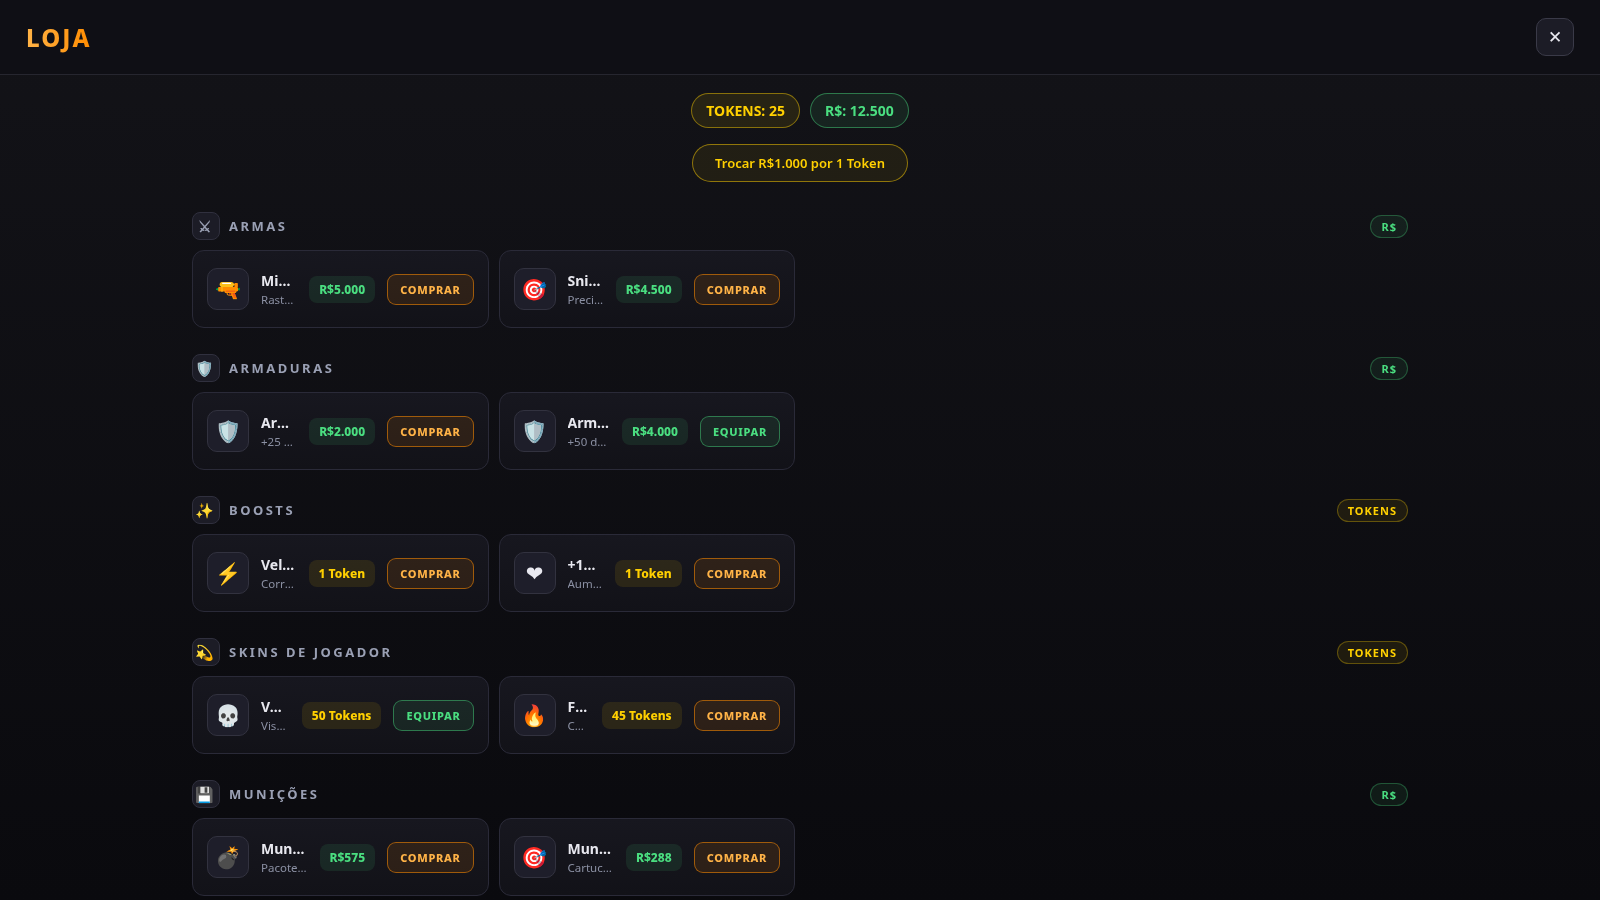
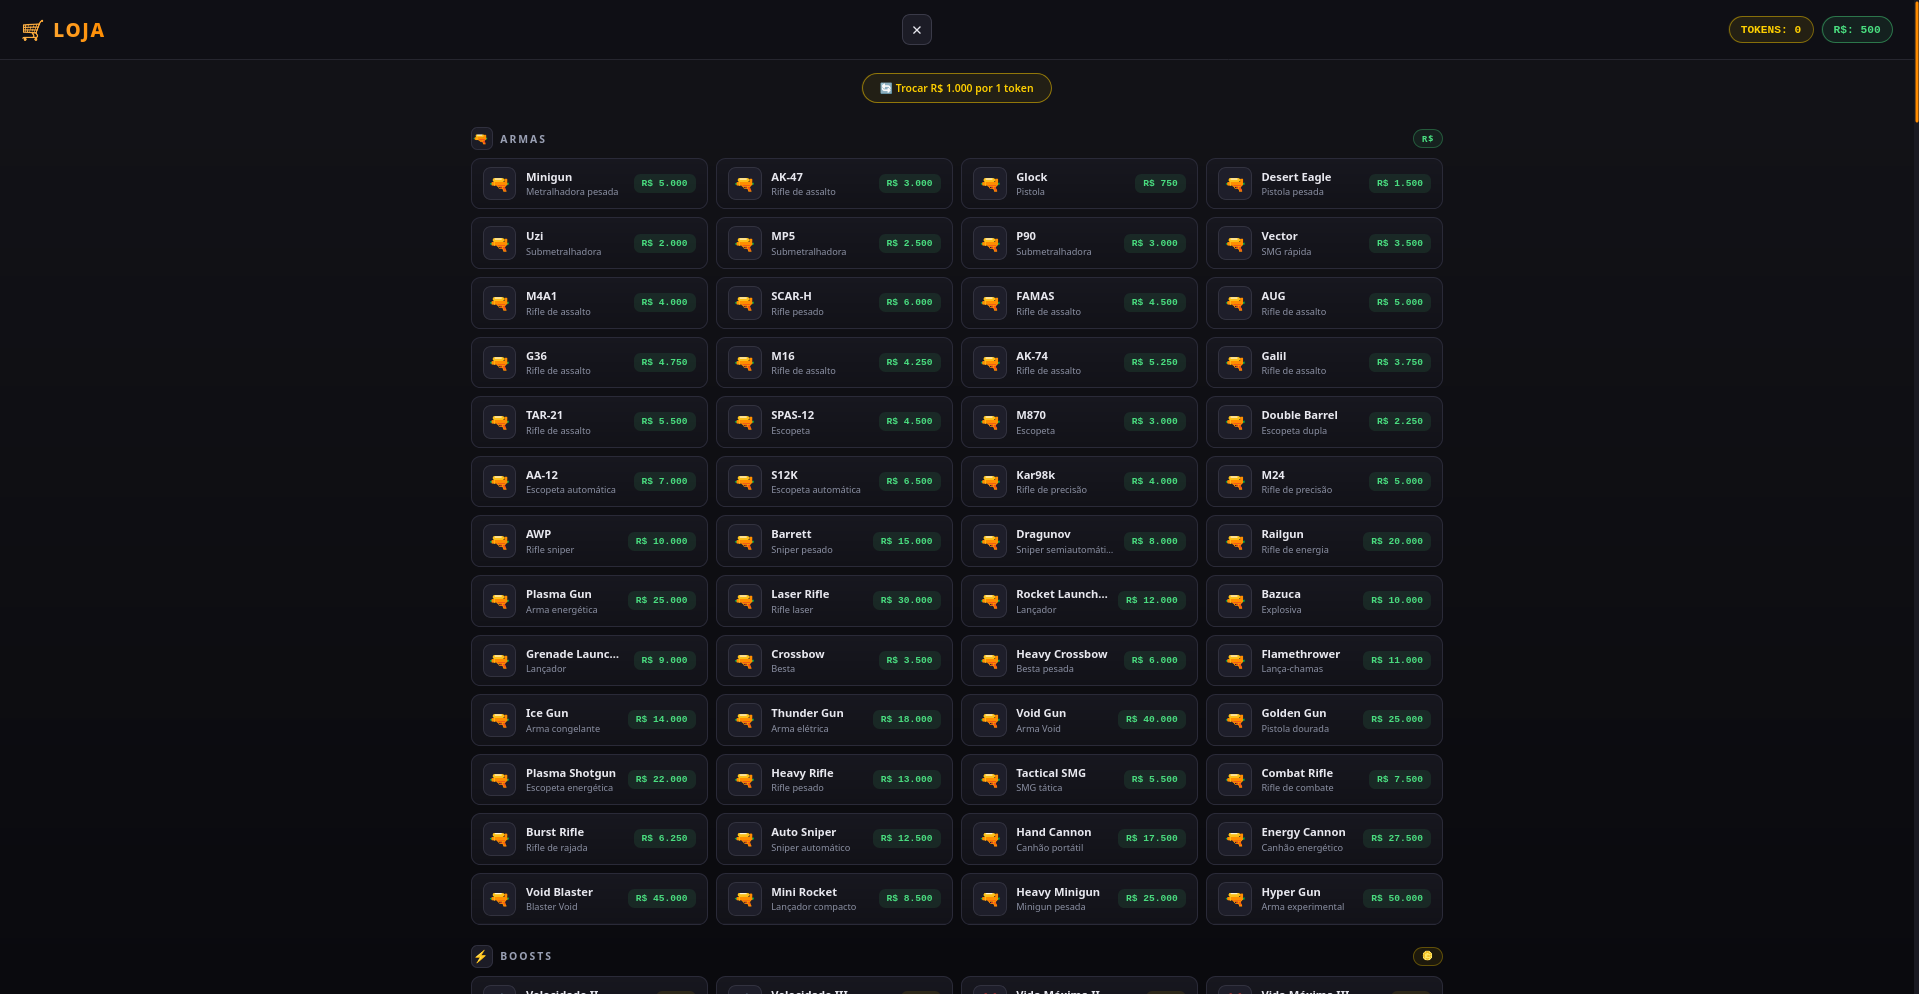
docs: ajustes no README e screenshot da loja

diff --git a/README.md b/README.md
@@ -11,22 +11,28 @@ Sobreviva. Evolua. Domine.
 [![Three.js](https://img.shields.io/badge/Three.js-000000?style=for-the-badge&logo=three.js&logoColor=white)](https://threejs.org/)
 [![WebSocket](https://img.shields.io/badge/WebSocket-010101?style=for-the-badge)](https://developer.mozilla.org/pt-BR/docs/Web/API/WebSocket)
 
+**🎮 Jogue agora: [reicapivararbx.github.io/capyquake](https://reicapivararbx.github.io/capyquake/)**
+
 </div>
 
 ---
 
 ## 🎮 Sobre o Jogo
 
-**Capiquake** é um jogo 3D de arena de combate com capivaras. Lute contra ondas crescentes de inimigos, compre armas e habilidades na loja, desbloqueie conquistas e enfrente o boss final em cada mapa.
+**CapiQuake** é um FPS 3D de arena onde você caça capivaras mutantes. Enfrente ondas crescentes de animais, compre 75+ armas na loja, evolua com níveis e rebirths, desbloqueie conquistas e enfrente bosses — sozinho ou com até 6 jogadores.
 
 ### ⚔ Funcionalidades
 
-- **⚔ Combate em Arena** — Armas corpo a corpo e à distância com mecânicas de recoil
-- **🛒 Loja Completa** — Armas, armaduras, boosts, skins, encantamentos e habilidades especiais
-- **🏆 216 Conquistas** — 8 raridades de Common a Cursed com sistema de progresso
-- **👥 Multiplayer** — Partidas online com até 6 jogadores via WebSocket
-- **🗺 3 Mapas** — Castelo, Floresta e Caverna, cada um com boss final
-- **💰 Economia** — Tokens e Reais (R$) com sistema de troca
+- **⚔ Combate em Arena** — 75 armas corpo a corpo e à distância com modelos 3D próprios
+- **🛒 Loja Completa** — 452 itens: armas, munições, armaduras, boosts, habilidades, encantamentos, skins e revives
+- **🏆 230 Conquistas** — 8 raridades de Common a Cursed, com recompensas em dinheiro e tokens
+- **🎮 33 Modos de Jogo** — Chaos, Reverse, One Shot, Boss Rush, Titan, Fantasma e muito mais
+- **👥 Multiplayer com Lobby** — Crie um lobby com código de 4 letras ou entre no de um amigo · só o host escolhe mapa e inicia
+- **🗺 30 Mapas** — Floresta Encantada até Planeta Alienígena, cada um com boss final
+- **💰 Economia** — Tokens e Reais (R$) com troca entre moedas
+- **🔄 Rebirth** — Zere seu progresso por bônus permanentes e Rebirth Tokens (RT)
+- **📱 Mobile** — Joystick virtual, botões touch e HUD adaptativo
+- **⌨ Teclas Customizáveis** — Remapeie tudo nas configurações
 
 ---
 
@@ -39,6 +45,9 @@ Sobreviva. Evolua. Domine.
 
 ### Gameplay
 <img src="assets/templates/gameplay.png" alt="Gameplay" width="800">
+
+### Modos de Jogo
+<img src="assets/templates/mods.png" alt="Modos" width="800">
 
 ### Loja
 <img src="assets/templates/shop.png" alt="Loja" width="800">
@@ -58,24 +67,40 @@ Sobreviva. Evolua. Domine.
 
 ## 🎯 Como Jogar
 
-### Controles
+### Controles (padrão — customizáveis no ⚙)
 
 | Ação | Tecla |
 |------|-------|
 | Mover | W, A, S, D |
 | Olhar | Mouse |
-| Atirar | Click Esquerdo |
+| Atirar | Botão Esquerdo |
 | Correr | Shift |
 | Pular | Espaço |
-| Trocar Arma | 1-5 |
-| Loja | Tab |
-| Pausar | Escape |
+| Pegar item / abrir baú | E |
+| Habilidade Void | F |
+| Alternar câmera 1ª/3ª pessoa | F3 |
+| Soltar o peido | T |
+| Emotes | B |
+| Mira da sniper | Ctrl |
+| Inventário | Esc |
+| Soltar arma | Z |
+| Granada / Teleporte | G |
+| Rush de velocidade | H |
+| Pausar | P |
 
-### Modos de Jogo
+No **celular**: joystick virtual + botões ATK, JUMP, SPR, ABL, 📷 câmera e 🎒 inventário.
 
-- **Singleplayer** — Lute contra ondas de inimigos e enfrente o boss final
-- **Multiplayer** — Compita contra outros jogadores em partidas online
-- **Modo Teste** — Teste armas e mecânicas sem restrições
+### Modos de Jogo (33)
+
+Além do **Normal**, experimente: Chaos Mode, Reverse, One Shot, Turbo, Gigante, Mini, Fantasma, Horda, Gravidade Zero, Vampiro, Dourado, **Boss Rush**, Vidro, Tanque, Pedra, Slow-mo, Canguru, Regenerador, Maratonista, Pesadelo, Sortudo, Mega Sortudo, Titan, Fúria, Elástico, Formigueiro, Colosso, Zumbi, Ninja, Rocha Viva, Cacique e Imortal.
+
+Cada modo altera a partida de verdade — velocidade, vida, escala dos animais, drops, gravidade e mais.
+
+### Waves e Bosses
+
+- Waves normais: 1–4, 6–9, 11–14...
+- **Mini-boss**: toda wave múltipla de 5
+- **Boss principal**: toda wave múltipla de 10
 
 ---
 
@@ -84,7 +109,8 @@ Sobreviva. Evolua. Domine.
 | Tecnologia | Uso |
 |------------|-----|
 | **Three.js** | Motor 3D, renderização, física |
-| **WebSocket** | Multiplayer online em tempo real |
+| **WebSocket (ws)** | Multiplayer online em tempo real |
+| **Vite** | Build e dev server |
 | **HTML5/CSS3** | UI, menus, HUD |
 | **Vanilla JavaScript** | Lógica do jogo, sem frameworks |
 | **Node.js** | Servidor multiplayer |
@@ -96,27 +122,37 @@ Sobreviva. Evolua. Domine.
 ### Requisitos
 
 - [Node.js](https://nodejs.org/) 18+
-- npm ou yarn
+- npm
 
 ### Instalação
 
 ```bash
-# Clone o repositório
 git clone https://github.com/reicapivararbx/capyquake.git
 cd capyquake
-
-# Instale as dependências (apenas para o servidor multiplayer)
 npm install
+```
 
-# Execute o servidor
+### Jogar offline / Multiplayer
+
+```bash
+# Sobe o jogo + servidor WebSocket na porta 8080
 node server/index.js
 ```
 
-### Jogando
+Abra `http://localhost:8080`. Amigos na mesma rede usam `http://SEU-IP:8080` (o servidor mostra o IP).
 
-1. Abra `index.html` no navegador
-2. Digite seu nome e selecione um modo de jogo
-3. Sobreviva às ondas e enfrente os boss!
+**Multiplayer:** Multiplayer → **Criar Lobby** (gera código de 4 letras) → envie o código pros amigos → **Entrar** com o código. Só o host escolhe o mapa e inicia.
+
+### Desenvolvimento
+
+```bash
+npx vite dev    # dev server com hot-reload (porta 3000)
+npx vite build  # build de produção em dist/
+```
+
+### Site público
+
+O build publicado fica em `gh-pages`. Para atualizá-lo após um `npx vite build`, copie o conteúdo de `dist/` para a branch `gh-pages`.
 
 ---
 
@@ -124,70 +160,70 @@ node server/index.js
 
 ```
 capyquake/
-├── index.html          # Arquivo principal do jogo
-├── style.css           # Estilos do jogo
+├── index.html               # HTML principal + estilos das telas
+├── shop.css                 # Estilo da loja
+├── vite.config.js           # Configuração do Vite
 ├── server/
-│   └── index.js        # Servidor multiplayer (WebSocket)
+│   └── index.js             # Servidor estático + WebSocket (lobbies)
 ├── src/
-│   ├── main.js         # Inicialização e loop do jogo
-│   ├── player.js       # Lógica do jogador
-│   ├── enemy.js        # Sistema de inimigos
-│   ├── weapons.js      # Armas e projéteis
-│   ├── maps.js         # Mapas e terreno
-│   ├── shop.js         # Loja e inventário
-│   ├── hud.js          # Interface do usuário
-│   ├── achievements.js # Sistema de conquistas
-│   ├── achievements-data.js # Dados das conquistas
-│   └── multiplayer.js  # Lógica multiplayer
-├── assets/
-│   ├── textures/       # Texturas do jogo
-│   ├── models/         # Modelos 3D
-│   ├── sounds/         # Efeitos sonoros
-│   └── templates/      # Templates HTML para screenshots
-│       ├── menu.html
-│       ├── gameplay.html
-│       ├── shop.html
-│       ├── achievements.html
-│       ├── multiplayer.html
-│       └── banner.html
-├── style-guide.md      # Guia de estilo visual
-├── ai-prompts.md       # Prompts para geração de imagens com IA
-└── gif-spec.md         # Especificação para sequência GIF
+│   ├── main.js              # Bootstrap, telas, easter eggs
+│   ├── game.js              # Núcleo: waves, combate, economia, conquistas
+│   ├── game-modes.js        # 33 modos de jogo
+│   ├── player.js            # Movimento, câmera, stamina
+│   ├── weapon.js            # Armas, tiro, modelos 3D
+│   ├── animals.js           # 96 animais com IA e animação
+│   ├── boss.js              # Boss e mini-boss
+│   ├── arena.js             # Arena, salas e colisões
+│   ├── maps.js              # 30 mapas
+│   ├── renderer.js          # Cena, luzes, céu
+│   ├── hud.js               # HUD in-game
+│   ├── menu.js              # Menu, loja, lobby
+│   ├── network.js           # Cliente WebSocket
+│   ├── keybindings.js       # Teclas customizáveis
+│   ├── achievements-data.js # 230 conquistas + recompensas
+│   ├── shop-data.js         # Catálogo da loja (452 itens)
+│   ├── device.js            # Detecção PC/mobile
+│   └── controls-mobile.js   # Controles touch
+└── assets/
+    └── templates/           # Screenshots e templates do README
 ```
 
 ---
 
 ## 🏆 Conquistas
 
-O jogo conta com **216 conquistas** distribuídas em 8 raridades:
+**230 conquistas** em 8 raridades — cada uma paga recompensa:
 
-| Raridade | Cor | Exemplo |
-|----------|-----|---------|
-| **COMMON** | ⬜ Cinza | Primeiro Abate, Cinco Ondas |
-| **UNCOMMON** | 🟢 Verde | Rico, Colecionador |
-| **RARE** | 🔵 Azul | Exterminador, Mestre das Waves |
-| **EPIC** | 🟣 Roxo | Lenda Viva |
-| **LEGENDARY** | 🟠 Laranja | Mestre das Waves |
-| **MYTHIC** | 🔴 Vermelho | Lenda das Armas |
-| **DIVINE** | 🟡 Dourado (gradiente) | Conquista Divina |
-| **CURSED** | ⬛ Escuro (borda vermelha) | Masoquista |
+| Raridade | Recompensa | Exemplo |
+|----------|-----------|---------|
+| **COMMON** | R$ 250 | Primeiro Abate |
+| **UNCOMMON** | R$ 500 | Rico |
+| **RARE** | R$ 1.500 + 1 token | Exterminador |
+| **EPIC** | R$ 3.000 + 2 tokens | Lenda Viva |
+| **LEGENDARY** | R$ 7.500 + 4 tokens | Mestre das Waves |
+| **MYTHIC** | R$ 15.000 + 8 tokens | Lenda das Armas |
+| **DIVINE** | R$ 40.000 + 15 tokens | Conquista Divina |
+| **CURSED** | R$ 1.000 + 3 tokens | Masoquista |
+
+Destaques: conquistas para cada um dos 33 modos, a cadeia **"Além da Vida"** (5 etapas que desbloqueia o Revive Infinity) e **"Colecionador de Modos"** (jogue todos os modos).
+
+---
+
+## 🔄 Rebirth
+
+Chegou no nível 100 com 10.000 tokens e R$ 1.000.000? Faça **Rebirth** pelo menu:
+
+- Zera nível, XP, dinheiro e tokens
+- Ganha **+1 RT** (Rebirth Token · 1 RT = 1.000.000 tokens)
+- Bônus permanentes que acumulam: dinheiro ×(1+n), tokens ×(1+0,5n), XP ×(1+n), HP ×2ⁿ
 
 ---
 
 ## 🎨 Assets Visuais
 
-O repositório inclui templates HTML/CSS para gerar screenshots autênticas do jogo:
-
 - **`assets/style-guide.md`** — Paleta de cores, tipografia e regras visuais
-- **`assets/ai-prompts.md`** — Prompts detalhados para geração de imagens com IA
-- **`assets/gif-spec.md`** — Especificação para sequência animada GIF
-- **`assets/templates/`** — 6 templates HTML prontos para captura de tela
-
-### Como usar os templates
-
-1. Abra o template desejado em um navegador
-2. Use `Ctrl+Shift+S` (Firefox) ou ferramentas de captura para salvar como PNG
-3. Tamanho ideal: 1920x1080 (banner, gameplay, multiplayer) ou 1600x900 (menu, shop, conquistas)
+- **`assets/ai-prompts.md`** — Prompts para geração de imagens com IA
+- **`assets/templates/`** — Templates HTML para captura de tela (1920×1080)
 
 ---
 
